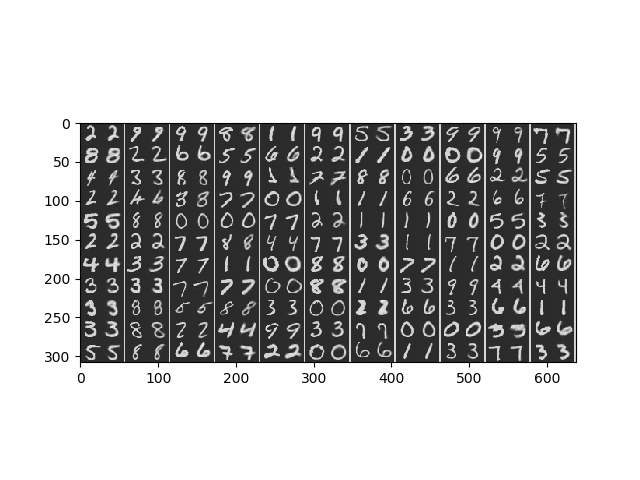
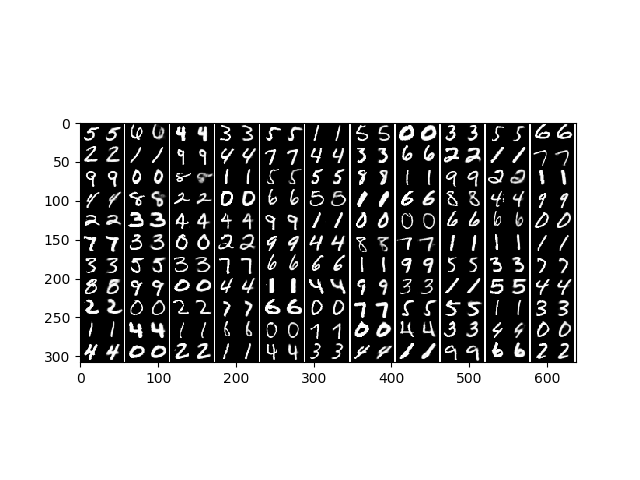
better figs

diff --git a/AdversarialAE/AdversarialAE.py b/AdversarialAE/AdversarialAE.py
@@ -142,7 +142,7 @@ class AAE(object):
             x = self.activation(x)
             x = tf.layers.conv2d_transpose(x, filters=1, kernel_size=4, strides=2, 
                                         padding='same',
-                                        activation= None,
+                                        activation= tf.nn.sigmoid,
                                         kernel_initializer=self.weight_init,
                                         bias_initializer=self.bias_init, 
                                         name ='dec_L7_convt')
@@ -483,7 +483,7 @@ class AAE(object):
             else:
                 z = np.random.randn(num_images, self.reduced_dim) * z_std
         else:
-            assert z.shape[1] == self.reduced_dim, 'z.shape[1] should be equal to {}.'.format(self.reduced_dim)
+            assert z.shape[1] == self.reduced_dim, 'z.shape[1] should be equal to {}.'.format(self.reduced_dim)    
 
         return self.sess.run(self.decoder(self.Z_prior, reuse=True), feed_dict={self.Z_prior: z})
 
@@ -548,8 +548,8 @@ if __name__ == '__main__':
     aae = AAE()
 
     # train and save the model
-    #aae.train(dataset=mnist, n_epoch=20, report_flag=False)
-    #aae.save('./AdversarialAE/saved_models/model.ckpt')
+    aae.train(dataset=mnist, n_epoch=20, report_flag=False)
+    aae.save('./AdversarialAE/saved_models/model.ckpt')
 
     # load the model
     aae.load('./AdversarialAE/saved_models/model.ckpt')
@@ -579,8 +579,8 @@ if __name__ == '__main__':
     aae2d = AAE(reduced_dim=2) 
 
     # train and save the model
-    #aae2d.train(dataset=mnist, n_epoch=20, report_flag=False)
-    #aae2d.save('./AdversarialAE/saved_models/model2d.ckpt')
+    aae2d.train(dataset=mnist, n_epoch=20, report_flag=False)
+    aae2d.save('./AdversarialAE/saved_models/model2d.ckpt')
 
     # load the model
     aae2d.load('./AdversarialAE/saved_models/model2d.ckpt')

diff --git a/AdversarialAE/README.md b/AdversarialAE/README.md
@@ -20,6 +20,9 @@ We start by downloading the MNIST dataset:
     # load the model
     aae.load('./AdversarialAE/saved_models/model.ckpt')
 
+While training, use tensorboard visualization to monitor different parameters.
+In tensorboard, undeer the **IMAGES** tab, find the progress of generation and reconstruction of images.
+
 
 **Testing the generator:**
   
